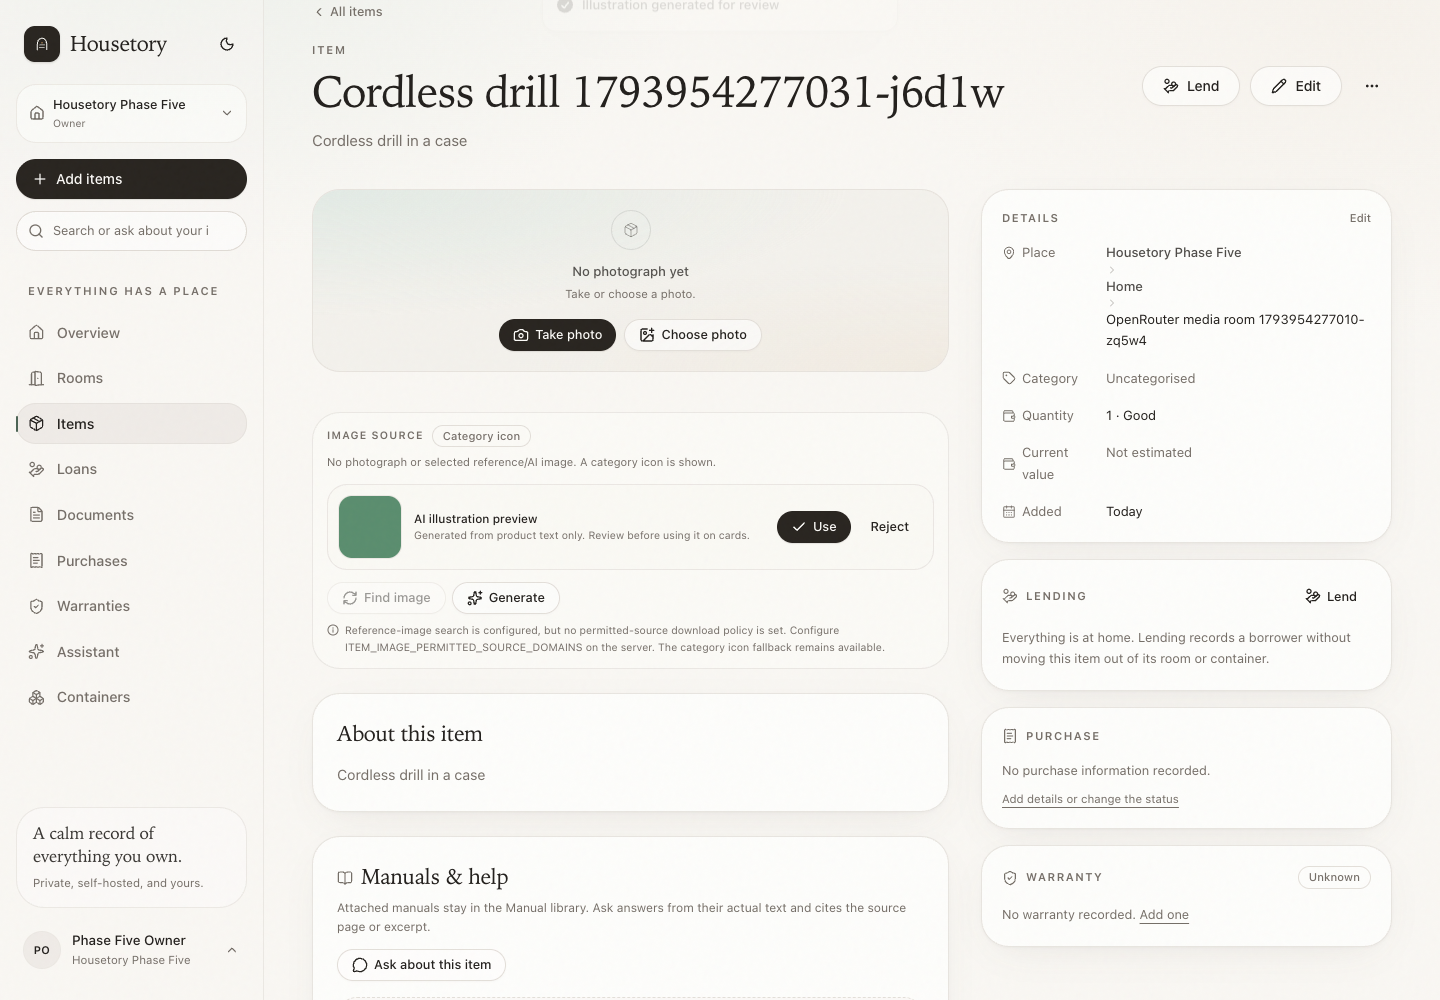
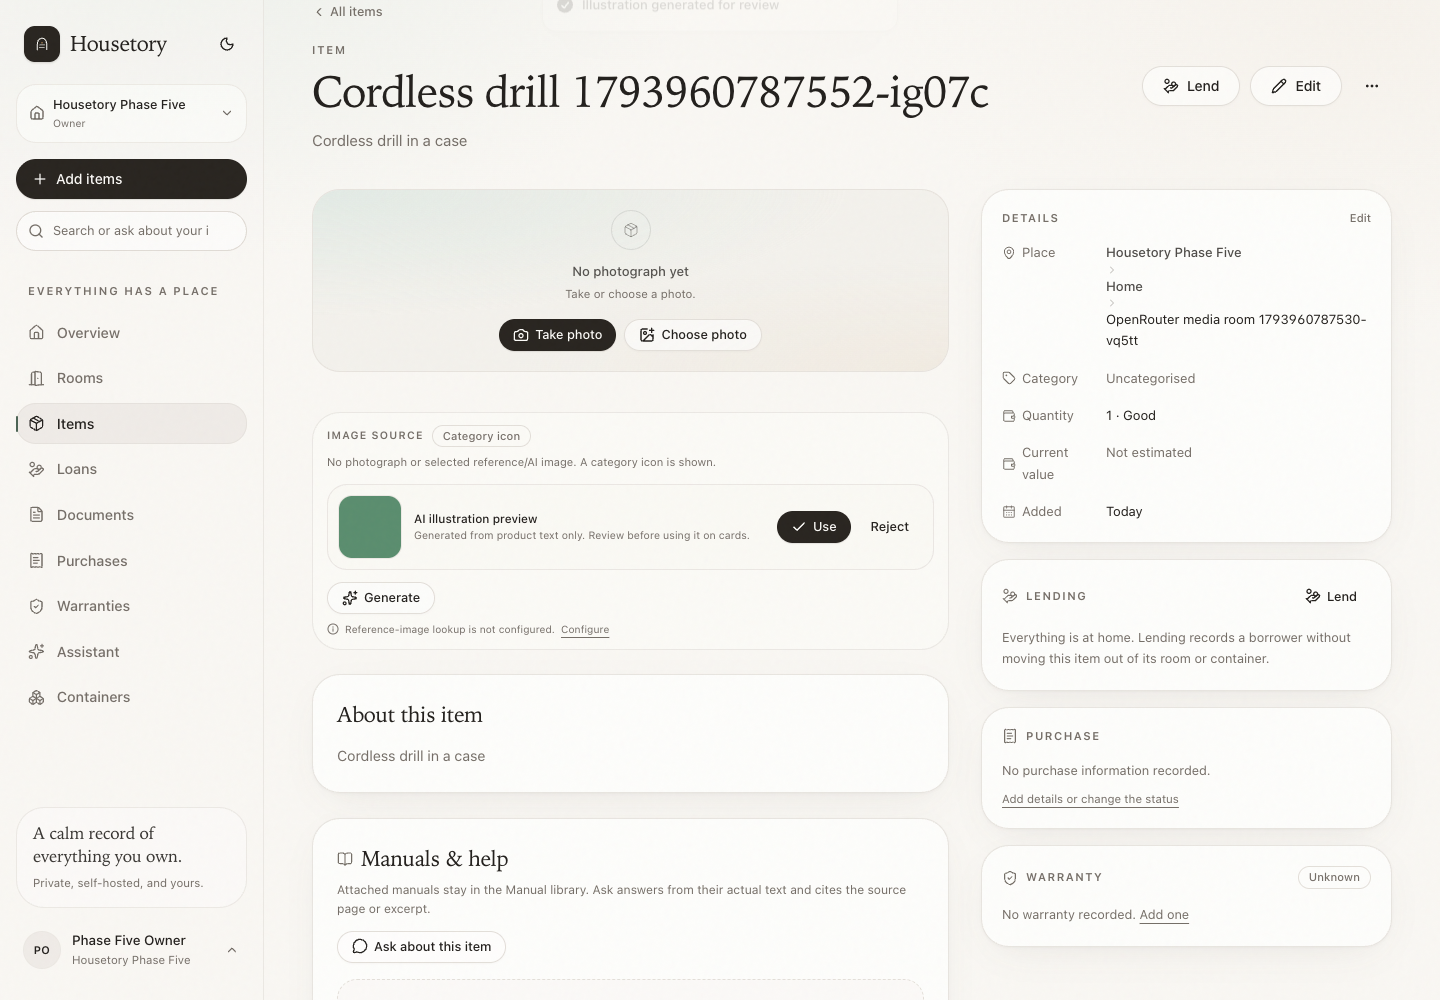
docs: record release stabilisation acceptance

diff --git a/IMPLEMENTATION_PLAN.md b/IMPLEMENTATION_PLAN.md
@@ -1902,6 +1902,94 @@ rules are in `docs/ITEM_IMAGES.md`.
   credential creation were performed. Remaining live validation requires real
   OpenRouter STT/image model access, credit and operator terms review.
 
+## Staged release stabilisation — search, AI parity, status and offline core
+
+Worked on `codex/release-stabilisation`; main is not merged or pushed.
+
+### Search query loss
+
+- [x] Reproduced that the initial empty debounced value could fire after an example
+  click or immediate Enter and delete `q` from `/search`.
+- [x] Fixed the state ordering with a draft/debounce guard: a stale debounced value
+  cannot overwrite an explicit submit, example or URL navigation. Example/clear/scope
+  actions preserve unrelated URL parameters, and the duplicated mode/action buttons
+  were reduced to one task-appropriate action.
+- [x] Added frontend regression tests for example questions, immediate Enter with a
+  pending debounce, keyword results, ask mode and URL scope; the release E2E repeats
+  the reproduced browser flow. Async queries remain keyed by URL query and scope.
+
+### Task-specific AI parity
+
+- [x] Added a single capability contract (`services/task_capabilities.py`) used by
+  discovery, the picker, save validation and status. Text tasks require text; vision
+  requires image input; transcription requires STT/audio input; item illustrations
+  require image output. Native tools/structured output are not blanket requirements.
+- [x] Hidden only confirmed-incompatible/adapter-unavailable models. Unknown metadata
+  and exact IDs remain selectable as **Unverified** with an explicit warning; the
+  server still rejects confirmed incompatibility and distinguishes a missing
+  Housetory adapter from provider incapability. Suggested ordering uses provider
+  metadata only, with no invented quality/price claims.
+- [x] Added owner-confirmed, bounded live task tests (text/JSON, synthetic vision
+  image, synthetic WAV tone and image output) with cost/usage warning, no automatic
+  discovery/typing calls, and persisted last-test status/time/error. Preserved saved
+  IDs rather than rewriting them; unlisted IDs are surfaced in the picker and status.
+- [x] Updated OpenRouter/OpenAI/Gemini/Ollama paths without silent provider/key
+  fallback. Existing encrypted credentials and task choices were not changed.
+
+### System status and worker evidence
+
+- [x] Added owner-only `GET /system/status` and `POST /system/jobs/{id}/retry` with
+  release version/commit/build/channel/identity, DB/storage/worker readiness, job
+  counts/recent failures, per-task configured/compatibility/live-tested state and
+  optional external-service configuration. Job payloads, keys, prompts and borrower
+  data are never returned; non-owners receive an access note.
+- [x] Added append-only migration `f2b4d6c8a0e1`: bounded last-test columns/constraint
+  on `ai_task_settings` and a PostgreSQL `worker_heartbeats` table. The worker writes
+  a 15-second DB heartbeat; the status screen shows stale/unknown honestly.
+- [x] Added Settings → System status UI and tests with retry, release identity and
+  compact desktop/mobile light/dark screenshots.
+
+### Offline-core acceptance
+
+- [x] Added `compose.offline.yaml`: API/database/worker have no outbound route; web
+  also joins an edge network so the browser can reach the published LAN port.
+- [x] Proved API and worker TCP/HTTPS outbound are blocked, then ran 31 core workflows
+  against disposable volumes: login/restart, CRUD, deterministic search, loans/history,
+  local scan/OCR, QR/labels, stocktake and PDF/CSV/ZIP worker exports. Added a browser
+  audit showing zero external requests. See `docs/OFFLINE_ACCEPTANCE.md`.
+- [x] Documented limits: this is not browser-offline editing/sync; LAN/trusted HTTPS
+  and stable QR addressing still matter; cloud AI/search/email remain optional,
+  honest unavailable states; no live provider quality claim.
+
+### Copy/usability cleanup
+
+- [x] Removed stale “built-in illustrations remain available” copy.
+- [x] Item image/voice optional features now show one compact setup status and one
+  Configure action instead of disabled artwork/recorder and repeated paragraphs;
+  server environment-variable guidance lives in Settings.
+- [x] Preserved typography, palette, cards, rounded controls, navigation and existing
+  mobile/desktop light/dark visual language.
+
+### Verification and local delivery
+
+- [x] **342** PostgreSQL backend tests, **153** Vitest tests and **49** normal
+  disposable-stack Playwright workflows pass. The isolated offline stack passed **31**
+  core workflows plus its zero-external-request audit. Ruff, strict TypeScript
+  typecheck, production build and Alembic drift checks pass.
+- [x] Screenshots: `docs/walkthrough/release-stabilisation/`; offline method and
+  commands: `docs/OFFLINE_ACCEPTANCE.md`; provider matrix: `docs/AI_PROVIDERS.md`.
+- [x] Backed up local Mac data to `backups/housetory-20261106T103043Z` with valid
+  checksums before the append-only migration/local deployment.
+- [x] Preserved the real local snapshot: 1 household, 1 property, 8 rooms, 10 storage
+  locations, 51 items, 1 user, 1 membership, 1 loan, 0 evidence exports, 0 actual
+  photos, 0 item images, 2 encrypted providers and 6 existing task assignments;
+  room/item ID and updated-at hashes unchanged. No task choice, credential, key or
+  household content was rewritten.
+- [x] No remote deployment, email, credential creation, paid/live provider call,
+  server wipe, nginx/key/SMTP change or arbitrary Docker cleanup was performed.
+  Remaining live checks are operator-run OpenRouter/OpenAI/Gemini usage tests and
+  real provider quality/access/billing validation, separate from this acceptance.
+
 ## Agreed product roadmap — updated 2026-11-05
 
 This sequence supersedes the previous desktop-app recommendation. These are

diff --git a/README.md b/README.md
@@ -220,6 +220,9 @@ Tailscale is optional.
   duplicate decisions and grouped-suggestion splitting are supported. Audio is
   deleted after transcription; nothing is written before explicit confirmation.
   See [`docs/VOICE_NOTES.md`](docs/VOICE_NOTES.md).
+- Search examples, Enter submission and debounced typing keep one URL/query source
+  of truth, preserve scope parameters and avoid stale async results. The offline
+  core path is documented in [`docs/OFFLINE_ACCEPTANCE.md`](docs/OFFLINE_ACCEPTANCE.md).
 - A conservative hierarchy importer that understands rooms, boxes, nested
   containers, legacy identifiers such as `STO-01` and their contents. Index
   pages and empty templates are skipped, and the tree is reviewed before apply.
@@ -232,10 +235,12 @@ Tailscale is optional.
   warnings and explicit remote-processing consent. Local, private-network and
   remote endpoints are labelled separately. Voice transcription is opt-in and
   supports OpenAI/Gemini audio plus OpenRouter STT or audio-input models; item
-  illustrations support the OpenAI Images API and OpenRouter Image API. Models are
-  filtered by discovered input/output modalities, and a chat model is never
-  silently reused for audio or image generation. See
-  [`docs/AI_PROVIDERS.md`](docs/AI_PROVIDERS.md).
+  illustrations support the OpenAI Images API and OpenRouter Image API. Each task
+  has a specific minimum capability (text, image input, audio input/STT or image
+  output), not a blanket tools/structured requirement. Confirmed-incompatible
+  models are hidden; unknown metadata and exact IDs are offered with an unverified
+  warning and an explicit, bounded live test. No discovery or status request runs a
+  paid inference. See [`docs/AI_PROVIDERS.md`](docs/AI_PROVIDERS.md).
 - Optional direct HTTPS with nginx, or Tailscale Serve as an optional private
   access layer. PWA and camera features work in secure contexts.
 - Document-to-item relationship suggestions that require explicit linking.
@@ -251,7 +256,7 @@ Tailscale is optional.
 The foundation in this repository has been exercised against the real Compose
 stack, not just unit mocks:
 
-- 338 pytest tests pass against PostgreSQL, including the full Alembic chain,
+- 342 pytest tests pass against PostgreSQL, including the full Alembic chain,
   authentication/abuse controls, hierarchy semantics, concurrent identifier
   allocation, container conversion, cross-room movement, rollback, cycles,
   summaries, PDF geometry, label calibration, archive security,
@@ -259,8 +264,9 @@ stack, not just unit mocks:
   provider adapters, task capabilities, consent enforcement, entity photos,
   multi-object recognition/apply/idempotency, voice-note grouping/corrections/
   duplicate resolution/split/idempotent confirmation, OpenAI/Gemini/OpenRouter
-  transcription adapters, OpenRouter image-output adapter, audio validation and
-  cleanup, lending quantities/concurrency/returns/
+  transcription adapters, OpenRouter image-output adapter, task-specific
+  capability contracts, unverified exact-ID paths, bounded task tests, worker
+  heartbeat/status scoping, audio validation and cleanup, lending quantities/concurrency/returns/
   retries, item and container history snapshots, safe undo and quantity/archive/
   delete guards, atomic bulk move/tag/category batches, batch replay/idempotency,
   per-item bulk-move undo, private document scan crop/perspective/rotation/
@@ -304,7 +310,7 @@ stack, not just unit mocks:
   permission and license evidence, evidence exclusion, AI preview/accept/reject,
   caps/batch cancellation and the OpenAI Images adapter contract with fixture
   responses.
-- 146 Vitest tests pass; strict TypeScript typecheck and production build pass.
+- 153 Vitest tests pass; strict TypeScript typecheck and production build pass.
 - 46 checked-in Playwright workflows pass on disposable Compose stacks, covering
   the Phase 5 container/label/QR flows, provider configuration against a mocked
   local Ollama service, camera upload, multi-object review/split/merge and
@@ -332,7 +338,11 @@ stack, not just unit mocks:
   category-icon/reference/AI/actual-photo workflows with batch cancellation, and
   a disposable OpenRouter fixture covering capability-filtered voice/image task
   configuration, mocked STT transcription, image preview/accept and provider
-  error handling.
+  error handling, release search query/example/submit regression, system status
+  build identity/jobs/task states and compact unavailable-feature states. The
+  isolated offline stack additionally passed 31 core workflows plus a zero-external-
+  browser-request audit with API/worker outbound TCP and HTTPS blocked; see
+  [`docs/OFFLINE_ACCEPTANCE.md`](docs/OFFLINE_ACCEPTANCE.md).
 - `docker compose up --build` brings all services healthy; the worker processed
   real queued maintenance, OCR, import and recognition jobs.
 - Real Tesseract OCR in the Compose worker extracted a photographed receipt

diff --git a/docs/OFFLINE_ACCEPTANCE.md b/docs/OFFLINE_ACCEPTANCE.md
@@ -1,0 +1,107 @@
+# Internet-independent core acceptance
+
+This record describes what was actually exercised without outbound Internet. It is
+not a claim that the browser can edit inventory offline: the browser still needs
+to reach the self-hosted server over a trusted LAN/local network.
+
+## Isolated topology
+
+`compose.offline.yaml` creates disposable volumes and an internal Docker network:
+
+- `db`, `migrate`, `api` and `worker` join only `core_internal` (`internal: true`);
+- `web` joins `core_internal` for the `/api` proxy and the default network only so
+  the browser can reach the published port;
+- no AI provider, Brave key, permitted image source, SMTP host or cloud credential
+  was configured for the stack.
+
+Commands:
+
+```bash
+WEB_BIND=127.0.0.1 WEB_PORT=8091 APP_BASE_URL=http://localhost:8091 \
+RELEASE_COMMIT=offline-core-test RELEASE_CHANNEL=offline-test \
+SERVER_IDENTITY=offline-stack AI_PROVIDER=disabled AI_CLOUD_ENABLED=false \
+AI_CLOUD_CONSENT=false AI_CLOUD_API_KEY= AI_CREDENTIAL_KEY= \
+MANUAL_SEARCH_PROVIDER=none BRAVE_SEARCH_API_KEY= ITEM_IMAGE_SEARCH_PROVIDER=none \
+SMTP_HOST= SMTP_USERNAME= SMTP_PASSWORD= SMTP_FROM_ADDRESS= \
+docker compose -p housetory-offline -f compose.yaml -f compose.offline.yaml up -d --build
+```
+
+## Actual outbound-block evidence
+
+Inside both `api` and `worker` containers:
+
+```text
+TCP 1.1.1.1:443 blocked: OSError
+HTTPS example.com blocked: URLError
+```
+
+## Core workflows exercised
+
+Against the isolated stack, 31 checked-in Playwright workflows passed:
+
+- account setup/login and viewer role behavior;
+- item, room, property and household CRUD/context;
+- keyword and deterministic structured search, quick search, missing-purchase
+  filters and the search query/submit regression;
+- loans, partial returns, history and move undo;
+- direct document scan/edit/reorder/save and local worker OCR;
+- QR/label creation, preview, calibration and authenticated container view;
+- room/container hierarchy and bulk operations;
+- stocktake start/resume/review/apply/complete;
+- evidence preview, PDF/CSV/ZIP generation and authenticated download through the
+  local worker;
+- system status and compact unavailable-feature states.
+
+Browser resource audit: the app shell, items, rooms, search, loans, documents and
+Settings loaded with **zero external browser requests**. Only same-origin,
+`data:` and `blob:` resources were used.
+
+Restart check: after restarting API, worker and web, readiness returned `ok`,
+login succeeded and the existing LAN session remained valid.
+
+## Optional-service behavior
+
+With no AI/search/mail configuration:
+
+- the item page shows one compact `Configure item images` action and no disabled
+  artwork/generation controls;
+- the voice page shows one `Configure voice transcription` action instead of a
+  disabled recorder;
+- status marks optional external services not configured and does not probe or
+  claim they work;
+- no paid/live provider call is made by discovery or status.
+
+## Tested boundaries and limitations
+
+- The browser itself still had Internet access during the resource audit; the
+  audit proves the app requested only local resources. The API/database/worker
+  Internet block is proven separately.
+- This is **not** offline browser editing, service-worker inventory sync or a
+  replacement for the server. The browser must reach the server over LAN.
+- A public domain may fail to resolve during an Internet outage. Use a stable
+  trusted-LAN HTTPS address and matching QR base URL; certificate validation is
+  never disabled.
+- Local OCR/PDF/labels/stocktake depend on bundled worker/runtime resources, not
+  first-use downloads. Model quality and real speech/cloud provider quality are
+  not claimed.
+- Cloud AI, manual/image discovery and email are optional and honestly unavailable
+  without configuration/Internet. Real provider live tests remain operator-run,
+  explicit and outside this automated acceptance.
+- The live household/Settings/task choices were not used to validate these
+  destructive workflows; the acceptance stack is disposable and separate.
+
+## Reproduce the focused checks
+
+```bash
+cd apps/web
+E2E_BASE_URL=http://localhost:8091 E2E_EMAIL=offline-core@example.com \
+E2E_PASSWORD=offline-core-password-2026 \
+E2E_DB_CONTAINER=housetory-offline-db-1 E2E_RELEASE_COMMIT=offline-core-test \
+npx playwright test e2e/accounts.spec.ts e2e/add-items.spec.ts \
+  e2e/bulk-organisation.spec.ts e2e/document-scanning.spec.ts \
+  e2e/inventory-evidence.spec.ts e2e/item-status.spec.ts e2e/lending.spec.ts \
+  e2e/phase5.spec.ts e2e/quick-search.spec.ts \
+  e2e/release-stabilisation.spec.ts e2e/single-home-polish.spec.ts \
+  e2e/stocktake.spec.ts e2e/zz-properties.spec.ts e2e/zzz-households.spec.ts
+npx playwright test e2e/offline-resource-audit.spec.ts
+```

diff --git a/docs/AI_PROVIDERS.md b/docs/AI_PROVIDERS.md
@@ -16,6 +16,57 @@ recording.
 | Item illustrations | Yes, `/images/generations` | No | No direct adapter | No | Yes, image-output models via `/images` | No |
 | Local/private endpoint | OpenAI-compatible base URL | — | — | — | — | Native chat |
 
+## Task-specific selection contract
+
+The model picker and server use one capability contract:
+
+| Task(s) | Actual minimum | Adapter providers |
+| --- | --- | --- |
+| Assistant, Smart imports, Document interpretation, Natural-language search, Label summaries | Text output | OpenAI, Anthropic, Gemini, xAI, OpenRouter, Ollama |
+| Image recognition | Image input + text output | Same provider adapters, model metadata permitting |
+| Voice transcription | STT output or audio input | OpenAI, Gemini, OpenRouter |
+| Item illustrations | Image output | OpenAI, OpenRouter |
+
+Native tool calling and native structured-output support are **not** blanket
+requirements. Label summaries, for example, only need a text model. Existing
+server-side JSON validation and safe text-parsing fallbacks remain in force.
+
+Models are presented in four states:
+
+- **Suggested** — provider metadata confirms the required capability. This is a
+  heuristic ordering, not a quality benchmark.
+- **Compatible** — the task adapter and model metadata support the task.
+- **Unverified** — capability metadata is incomplete or the exact model ID is not
+  in the catalog. Saving is allowed, but the UI warns and offers an explicit live
+  test. Confirmed-incompatible IDs are still rejected.
+- **Unavailable / adapter unavailable** — the implemented adapter cannot serve
+  that task/provider. The message distinguishes a Housetory adapter gap from a
+  provider being incapable.
+
+A missing adapter is never presented as proof that a provider cannot do the task.
+Selecting one key/provider remains valid; there is no silent alternate-provider or
+key fallback.
+
+## Explicit live task tests
+
+Discovery only reads catalog metadata. A separate owner-only
+`POST /ai/tasks/{task}/test` requires `confirm: true` and uses minimal synthetic
+data (a short text/JSON prompt, a tiny generated image, a synthetic WAV tone or a
+small generated image depending on the task). The UI shows a confirmation warning
+that the provider may incur usage/cost and that no inventory, borrower, document or
+private note data is used. Results and bounded errors are stored for the status
+screen. No test runs on typing, discovery, page load or model recommendation.
+
+## System status
+
+Settings → System status shows the deployed release commit/build/channel/identity,
+database/storage/worker readiness, job counts and recent failures with explicit
+retry, per-task configured/compatible/live-tested state and last error/time, plus
+configured/not-configured optional external services. It never returns API keys,
+job payloads, prompts, borrower notes or inventory details. A catalog listing is
+not a successful inference test; only an explicit task test marks a task
+live-tested.
+
 Unsupported provider/task combinations are rejected with an explicit API error;
 they are not sent to a guessed endpoint and do not produce fake previews or
 transcripts.
